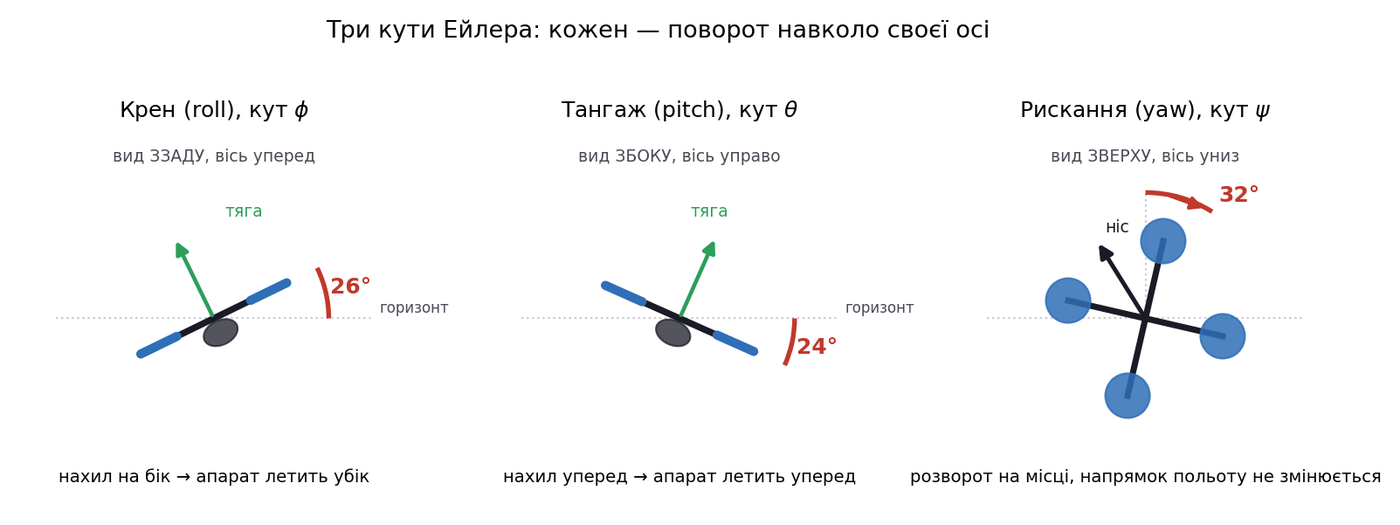
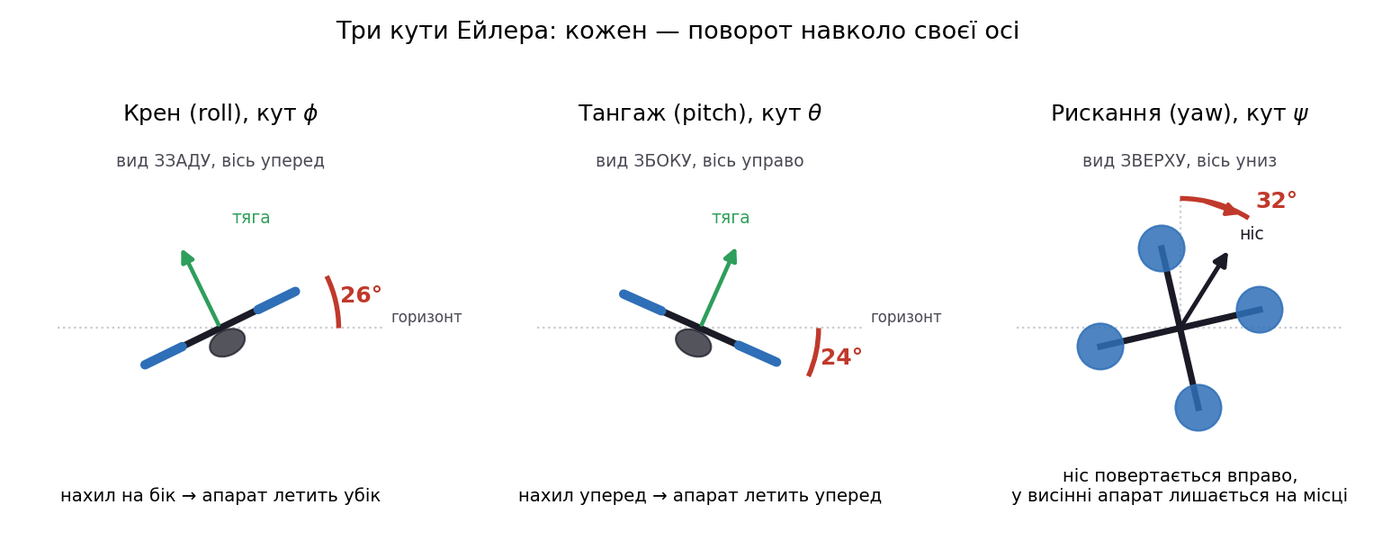
П'яте рев'ю: виправлено фізику акселерометра, кватерніон, Калмана й каскад
Аудит нового матеріалу знайшов блокувальні помилки. Арифметика скрізь
зійшлася (перевірено перерахунком), помилки — у поясненні фізичного
змісту й у перенесенні часткового прикладу на загальний випадок.

Орієнтація:
- акселерометр було описано як такий, що "міряє суму тяжіння й
  прискорення". Це неправильно: він міряє силу з боку опори, у вільному
  падінні його покази близькі до нуля. Переписано, та сама поправка
  внесена в картку числення шляху;
- yaw більше не названо таким, що "не змінює напрямок польоту": у висінні
  це так, але в нахилі зміна курсу повертає й напрямок горизонтальної тяги;
- кватерніон: було "три числа на вісь, одне на кут" - насправді векторна
  частина це вісь, помножена на синус половини кута. Додано формулу
  q = (cos(a/2); n*sin(a/2)). Знято вигадане пояснення, ніби половина кута
  "розтягує оберт" і цим усуває особливі положення. Обіцянку про плавну
  інтерполяцію обмежено: потрібні одиничні кватерніони й узгодження знаків,
  бо q і -q задають ту саму орієнтацію;
- напрямки обертання на рисунках кутів і кватерніона суперечили один
  одному. Обидва приведено до осі вниз: додатний кут - розворот управо;
- gimbal lock: "розклад не існує" -> "перестає бути однозначним";
- приклад із камерою: матриця дає поворот, позицію апарата додають окремо.

Фільтр Калмана:
- загальний вигляд прогнозу був несумісний із P = P + Q. Картку названо
  "Скалярний фільтр для найпростішої моделі", прогноз записано як x = x;
[…]

diff --git a/lectures/02.md b/lectures/02.md
@@ -109,15 +109,17 @@ Three Euler angles shown on a quadrotor from three views
 |---|---|---|
 | Крен $\phi$ (*roll*) | вісь, спрямована вперед | нахиляється на бік і летить убік |
 | Тангаж $\theta$ (*pitch*) | вісь, спрямована вправо | нахиляється вперед і летить уперед |
-| Рискання $\psi$ (*yaw*) | вертикальна вісь | розвертається на місці, напрямок польоту не змінюється |
+| Рискання $\psi$ (*yaw*) | вертикальна вісь | повертає ніс; у горизонтальному висінні це не зрушує апарат із місця |
 
-Перші два кути **керують рухом**, третій — лише орієнтацією корпусу. Наскільки саме керують, каже проста формула: якщо апарат тримає висоту й нахилений на кут $\theta$, горизонтальне прискорення дорівнює
+Перші два кути **керують рухом**, третій у висінні повертає лише корпус. (Якщо апарат уже нахилений, зміна курсу повертає й напрямок горизонтальної тяги — але в висінні цього ефекту немає.) Наскільки саме керують, каже проста формула: якщо апарат тримає висоту й нахилений на кут $\theta$, горизонтальне прискорення дорівнює
 
 $$a = g\,\tan\theta$$
 
 Нахил 10° дає 1,7 м/с², 20° — 3,6 м/с², 30° — 5,7 м/с². Ось чому в гонкових польотах апарат нахиляють майже на 45°: там $a \approx g$.
 
-Зворотний бік тієї самої монети: **апарат визначає, де низ, по акселерометру**. У спокої той міряє тільки силу тяжіння, і кут крену дістають як $\phi = \arctan(a_y / a_z)$. У маневрі це вже не працює — акселерометр міряє суму тяжіння й прискорення, — і тут потрібен гіроскоп та фільтр із частини 2.
+Зворотний бік тієї самої монети: **апарат орієнтується, де низ, по акселерометру**. Тут є тонкість, на якій часто плутаються: акселерометр міряє не прискорення й не силу тяжіння окремо, а те, з якою силою на нього діє опора. Нерухомий на столі — показує рівно $g$ угору; у вільному падінні — майже нуль.
+
+Звідси й користь: **поки апарат летить спокійно, напрямок цього вектора вказує вниз**, і з нього оцінюють нахил. У різкому маневрі оцінка псується, бо до показів додається власне прискорення апарата, — тому поряд завжди працює гіроскоп і фільтр із частини 2.
 
 ### Матриця повороту: той самий приклад із числами
 
@@ -138,11 +140,13 @@ Rotation matrix worked example with a tilted quadrotor
 
 **Кожен рядок матриці відповідає одній осі землі** й каже, скільки в неї дає кожна вісь апарата. Числа 0,940 і 0,342 — це просто $\cos 20°$ і $\sin 20°$.
 
-Де це працює на практиці: камера побачила перешкоду «за 3 метри попереду **від себе**» — щоб нанести її на карту, потрібні координати в земній системі, і перерахунок робить та сама матриця. У просторі вона 3×3, вектор із трьох чисел, принцип не змінюється.
+Де це працює на практиці: камера побачила перешкоду «за 3 метри попереду **від себе**». Щоб нанести її на карту, цей вектор спершу повертають матрицею в земні осі — а потім додають до нього власну позицію апарата. Матриця відповідає саме за поворот; зсув до позиції додають окремо. У просторі вона 3×3, вектор із трьох чисел, принцип не змінюється.
 
 ### Кватерніон: вісь і кут замість трьох чисел
 
-Кватерніон описує поворот **найчеснішим способом**: будь-який поворот тіла — це поворот навколо однієї осі на певний кут. Кватерніон і зберігає саме це: три числа на вісь, одне на кут.
+Кватерніон спирається на простий факт: **будь-який поворот тіла — це поворот навколо однієї осі на певний кут.** Записують це чотирма числами: перше — косинус половини кута, решта три — одинична вісь, помножена на синус половини кута.
+
+$$q = \bigl(\cos\tfrac{\alpha}{2};\ \ \mathbf{n}\sin\tfrac{\alpha}{2}\bigr)$$
 
 
 <Figure src="/figs/own/m02-quaternion-example.png" alt="Quaternion example for yaw rotations of a quadrotor">
@@ -152,17 +156,19 @@ Quaternion example for yaw rotations of a quadrotor
 </Figure>
 
 
-На прикладі розворот навколо вертикалі, тому вісь одна й та сама, а змінюється лише кут. Записують так: перше число — $\cos$ половини кута, останнє — $\sin$ половини кута навколо вертикальної осі.
+На прикладі розворот навколо вертикалі: вісь одна й та сама, змінюється лише кут. Вісь вертикальна, тому ненульовою лишається тільки остання компонента.
 
 | **Розворот апарата** | **Кватерніон** |
 |---|---|
 | 0° — ніс на північ | $(1{,}00;\ 0;\ 0;\ 0{,}00)$ |
-| 90° — ніс на захід | $(0{,}71;\ 0;\ 0;\ 0{,}71)$ |
+| 90° управо — ніс на схід | $(0{,}71;\ 0;\ 0;\ 0{,}71)$ |
 | 180° — ніс на південь | $(0{,}00;\ 0;\ 0;\ 1{,}00)$ |
 
-Найдивніше тут — **половина кута**. Розвернувся на 180°, а в кватерніоні 90°. Це не помилка запису, а те, завдяки чому кватерніон не має особливих положень: він рівномірно «розтягує» повний оберт замість того, щоб упиратися в межу, як кути Ейлера.
+Вісь тут вертикальна й спрямована вниз, тому додатний кут — це розворот управо, як на рисунку.
 
-Практичний наслідок для рою: **кватерніони зручно усереднювати й інтерполювати**. Потрібно плавно розвернути апарат із поточної орієнтації в задану — по кватерніонах виходить одна гладка дуга. По кутах Ейлера той самий розворот може піти найдовшим шляхом або смикнутися на переході через ±180°.
+Найдивніше тут — **половина кута**: розвернувся на 180°, а в записі 90°. Так влаштована формула, і до цього просто звикають.
+
+Практичний наслідок: **плавні розвороти рахують саме на кватерніонах**. Готові функції інтерполяції обертань працюють з одиничними кватерніонами, узгоджують знаки й обирають коротший шлях. Дві засторóги, без яких це не працює: кватерніон завжди тримають одиничної довжини, а $q$ і $-q$ задають **ту саму** орієнтацію — тому покомпонентно усереднювати кватерніони без перевірки знаків не можна.
 
 ### Особливе положення кутів Ейлера
 
@@ -170,7 +176,7 @@ Quaternion example for yaw rotations of a quadrotor
 
 Уявіть, що апарат задер ніс **строго вертикально**. Тепер поверніть його навколо вертикальної осі — це рискання. А тепер спробуйте крен. Виявляється, це той самий фізичний рух: вісь крену збіглася з віссю рискання. Три числа описують лише два незалежні повороти, і розкласти орієнтацію однозначно вже неможливо. Це **gimbal lock**.
 
-У самому цьому положенні розклад не існує, а поблизу нього він стає дедалі чутливішим: крихітна похибка гіроскопа дає стрибок кута на десятки градусів. Для знімального польоту це не проблема — там тангаж рідко виходить за 30°. Для акробатики чи різкого маневру — проблема щоразу.
+У самому цьому положенні розклад **перестає бути однозначним** — тих самих трьох чисел можна дібрати нескінченно багато, — а поблизу нього він стає дедалі чутливішим: крихітна похибка гіроскопа дає стрибок кута на десятки градусів. Для знімального польоту це не проблема — там тангаж рідко виходить за 30°. Для акробатики чи різкого маневру — проблема щоразу.
 
 Тому в автопілоті працює розподіл ролей: **рахують кватерніоном, перетворюють матрицею, показують оператору кути.**
 
@@ -237,7 +243,9 @@ Contribution of each PID term under a constant disturbance
 </Figure>
 
 
-На графіку той самий апарат зі сталим збуренням 0,6 Н і трьома наборами коефіцієнтів: сам П нескінченно коливається, П+Д зупиняється — але на 0,10 м нижче цілі, і лише П+І+Д доходить до заданої висоти.
+На графіку той самий апарат зі сталим збуренням 0,6 Н і трьома наборами коефіцієнтів: сам П коливається без згасання, П+Д зупиняється — але на 0,10 м нижче цілі, і лише П+І+Д доходить до заданої висоти.
+
+Дві засторóги до графіка. Модель тут спрощена: вага вже скомпенсована, тому $u$ — це **добавка** до тяги висіння, як доданок $mg$ у ЛР 1; опору повітря не враховано, через що чистий П і не згасає. І коефіцієнти підібрані так, щоб показати роль кожної складової, а не як приклад доброго налаштування: у варіанта П+І+Д перерегулювання близько 28 %, що за критерієм наступної картки не пройшло б.
 
 ### Стала похибка: звідки береться й чим лікується
 
@@ -253,7 +261,7 @@ $$e_{\text{ст}} = \frac{d}{k_p}$$
 </Figure>
 
 
-Для вітру $d = 0{,}6$ Н і $k_p = 6$ Н/м це 0,10 м. Збільшити $k_p$ втричі — похибка впаде до 3 см, але контур стане нервовим і почне підсилювати шум датчика. **Прибирає похибку саме інтегральна складова**: вона накопичує ці 10 см, доки не додасть рівно ті 0,6 Н, яких бракувало.
+На цьому рисунку збурення горизонтальне — вітер зносить апарат убік; на попередньому воно тягнуло вниз. Механізм той самий, тому й число те саме: для $d = 0{,}6$ Н і $k_p = 6$ Н/м похибка дорівнює 0,10 м. Збільшити $k_p$ втричі — похибка впаде до 3 см, але контур стане нервовим і почне підсилювати шум датчика. **Прибирає похибку саме інтегральна складова**: вона накопичує ці 10 см, доки не додасть рівно ті 0,6 Н, яких бракувало.
 
 Важливий виняток, який ви побачите в ЛР 1: якщо постійне навантаження **відоме наперед**, його компенсують не інтегратором, а доданком наперед — у контурі висоти до керування просто додають $mg$. Інтегратор лишається для того, чого не знали заздалегідь: вітру, похибки маси, зміщення центра.
 
@@ -299,7 +307,7 @@ Crazyflie 2.1 із лабораторних: у висінні мотори ви
 
 ### Числення шляху: навігація без жодного орієнтира
 
-Апарат має знати, **де він**. Найочевидніше джерело — GPS, але він мовчить у приміщенні, під мостом, у тунелі, у міській забудові між висотками. Що робити тоді?
+Апарат має знати, **де він**. Найочевидніше джерело — GPS, але в приміщенні чи тунелі сигналу немає, а серед високої забудови він буває неточним. Що робити тоді?
 
 Відповідь стара, як мореплавство. Штурман без берегів і зірок брав останнє відоме положення, курс, швидкість і час — і рахував, де корабель має бути зараз. Помилився в швидкості — помилка лишається в оцінці назавжди й додається до наступної. Цей спосіб називається **числення шляху** (*dead reckoning*), і бортовий комп'ютер робить те саме.
 
@@ -309,7 +317,7 @@ Crazyflie 2.1 із лабораторних: у висінні мотори ви
 <Flow :nodes="[&quot;прискорення&quot;, &quot;швидкість&quot;, &quot;положення&quot;]" />
 
 
-Проінтегрували прискорення — дістали швидкість. Проінтегрували швидкість — дістали положення. Жодних зовнішніх сигналів, нічого не заглушити, працює будь-де й на будь-якій частоті. Саме тому числення шляху є на кожному апараті.
+Проінтегрували прискорення — дістали швидкість. Проінтегрували швидкість — дістали положення. Головна перевага: **не потрібен зовнішній радіосигнал** — усе рахується на борту з власних датчиків. Саме тому числення шляху є на кожному апараті. Точність при цьому цілком залежить від якості датчиків і від того, як часто оцінку коригують ззовні.
 
 ### Чому позиція спливає сама собою
 
@@ -369,22 +377,24 @@ $$\hat{x} = \hat{x}^- + K\,(z - \hat{x}^-), \qquad K = \frac{0{,}09}{0{,}09 + 0{
 | Наскільки рушити оцінку | $0{,}123 \cdot 1{,}20$ | 0,15 м |
 | Нова оцінка | $10{,}00 + 0{,}15$ | **10,15 м** |
 
-Читається так: «барометру вірю приблизно на 12 %». Звідки 12 %? Похибка прогнозу майже втричі менша, а у ваги входять **квадрати** похибок — тому перевага прогнозу виходить майже десятикратною.
+Читається так: «барометру вірю приблизно на 12 %». Звідки 12 %? Стандартне відхилення прогнозу майже втричі менше, а у ваги входять **квадрати** цих чисел: $0{,}64 / 0{,}09 \approx 7$. Прогноз важить усемеро більше, звідси й 12 % на вимірювання. У прикладі похибки двох джерел вважаємо незалежними.
 
-Читається так: «барометру вірю приблизно на 12 %». **$K$ близьке до нуля** — «вірю моделі, датчик шумний»; **близьке до одиниці** — «вірю датчику, модель груба». Якби барометр мав похибку 0,10 м, підсилення стало б 0,9, і оцінка пішла б майже до його показів.
+Читається так: «барометру вірю приблизно на 12 %» — бо у ваги входять квадрати похибок, і прогноз виявляється вагомішим приблизно всемеро. **$K$ близьке до нуля** — «вірю моделі, датчик шумний»; **близьке до одиниці** — «вірю датчику, модель груба». Якби барометр мав похибку 0,10 м, підсилення стало б 0,9, і оцінка пішла б майже до його показів.
 
-### Увесь фільтр — чотири рядки
+### Скалярний фільтр для найпростішої моделі
 
-Для однієї величини фільтр Калмана вміщується в чотири прості формули. Позначимо $P$ — наскільки фільтр не впевнений у власній оцінці (квадрат стандартного відхилення), $Q$ — наскільки за такт псується прогноз, $R$ — квадрат похибки датчика.
+Візьмімо найпростіший випадок: оцінюємо одну величину, а модель руху каже «наступного такту буде приблизно те саме». Тоді фільтр Калмана вміщується в чотири рядки. Позначимо $P$ — наскільки фільтр не впевнений у власній оцінці (це квадрат стандартного відхилення), $Q$ — наскільки за такт псується прогноз, $R$ — квадрат похибки датчика.
 
 | **Крок** | **Формула** | **Словами** |
 |---|---|---|
-| 1. Прогноз стану | $\hat{x}^- = f(\hat{x})$ | куди апарат мав переміститися за моделлю |
+| 1. Прогноз стану | $\hat{x}^- = \hat{x}$ | модель каже «лишиться як було» |
 | 2. Прогноз невпевненості | $P^- = P + Q$ | **без вимірювань упевненість тільки падає** |
 | 3. Підсилення | $K = \dfrac{P^-}{P^- + R}$ | чия похибка менша, той і важить більше |
 | 4. Корекція | $\hat{x} = \hat{x}^- + K(z - \hat{x}^-)$, $\;P = (1-K)\,P^-$ | зсунули оцінку й стали впевненіші |
 
-Ці чотири рядки крутяться в циклі сто разів на секунду. Ось як це виглядає на 220 тактах:
+Рядок 1 тут навмисно тривіальний. У справжньому фільтрі там стоїть модель руху, і тоді другий рядок теж виглядає складніше — але сенс усіх чотирьох кроків лишається той самий.
+
+Ось цей цикл на 220 тактах (у прикладі такт 0,05 с, тобто 20 разів на секунду — частота може бути будь-якою):
 
 
 <Figure src="/figs/own/m02-kalman-time.png" alt="Kalman filter tracking true altitude through noisy measurements">
@@ -394,9 +404,11 @@ Kalman filter tracking true altitude through noisy measurements
 </Figure>
 
 
-Ліворуч: червоні точки — покази барометра, вони стрибають на ±1,5 м; чорний пунктир — справжня висота; синя лінія — те, що видає фільтр. Він **не повторює шум і не відстає** від справжньої висоти. Смуга навколо — власна оцінка невпевненості фільтра, і справжня висота майже завжди в неї потрапляє.
+Ліворуч: червоні точки — покази барометра, розкид до двох метрів; чорний пунктир — справжня висота; синя лінія — те, що видає фільтр. Він **гасить більшу частину шуму**, хоч і не весь, і йде слідом за справжньою висотою з невеликим запізненням. Бліда смуга — власна оцінка невпевненості фільтра, $\pm 2\sqrt{P}$; у цьому прогоні справжня висота потрапила в неї 217 разів із 220.
 
-Праворуч — підсилення $K$. На першому такті фільтр не знає нічого й майже повністю вірить датчику. Далі $P$ і $K$ швидко виходять на стале значення близько 0,31: рівновага між тим, як швидко псується прогноз, і тим, як шумить датчик. **Саме через це фільтр не треба «налаштовувати на льоту» — він сам знаходить свою робочу точку.**
+Праворуч — підсилення $K$. На першому такті воно 0,61: стартову оцінку задали грубо, тому вимірювання отримує більшу вагу. Далі $K$ швидко виходить на стале значення 0,31 — рівновага між тим, як швидко псується прогноз ($Q$), і тим, як шумить датчик ($R$). Стале значення $P$ при цьому інше, 0,20 м²: це різні величини, і плутати їх не варто.
+
+Важливо, чого звідси **не** випливає. Те, що $K$ сам виходить на стале значення, не означає, що фільтр «сам налаштувався»: $Q$ і $R$ ми задали наперед, і саме вони визначили цю робочу точку. Якщо датчик заміняють або змінюються умови польоту — числа доводиться переглядати.
 
 Практичний наслідок кроку 2: якщо вимірювань довго немає, $P$ росте, $K$ підскакує — і перше ж вимірювання фільтр «проковтне» майже цілком. Так і має бути: чим довше летіли наосліп, тим цінніший погляд назовні.
 
@@ -500,7 +512,7 @@ $$u_i = \sum_{j \in \mathcal{N}_i} (x_j - x_i)$$
 
 $$x_i \leftarrow x_i + \Delta t \cdot u_i$$
 
-Крок $\Delta t$ малий (у нас 0,01 с) — апарат не стрибає до сусіда, а посувається на сантиметри. Ось ці самі обчислення для апарата 1 на першому такті:
+Крок $\Delta t$ малий (у нас 0,01 с) — апарат не стрибає до сусіда, а посувається на сантиметри. Важлива деталь реалізації: всі нові висоти рахують **з одного знімка старих**. Якщо оновлювати їх по черзі, поспіль у тому самому масиві, вийде вже інший алгоритм. Ось ці самі обчислення для апарата 1 на першому такті:
 
 | **Величина** | **Значення** |
 |---|---|
@@ -524,17 +536,17 @@ Consensus on a chain shown at four time steps
 </Figure>
 
 
-**Такт 0.** Розкид величезний: від 2 до 12 м. Апарати 1 і 3 вищі за сусідів — команда вниз; 2 і 4 нижчі — команда вгору. Апарат 5 майже на місці: він лише трохи вищий за свого єдиного сусіда.
+**Такт 0.** Розкид величезний: від 2 до 12 м. Апарати 1 і 3 вищі за своїх сусідів — команда вниз; 2 і 4 нижчі — команда вгору. Апарат 5 висить на 7 м, а його єдиний сусід — на 2 м, тому він теж отримує команду знижуватися. Стрілки на рисунку показують **напрямок** команди, не її величину.
 
 **Такт 1.** Кожен зсунувся на кілька сантиметрів. Нічого драматичного — і в цьому суть: закон працює маленькими кроками.
 
 **Такт 200 (2 секунди).** Розкид упав із 10 м до 2 м. Видно, як «хвиля» пішла ланцюгом: апарат 1 просів найсильніше, бо був найдалі від усіх.
 
-**Такт 1000 (10 секунд).** Усі п'ять — на 6,8 м, стовпчики зрівнялися.
+**Такт 1000 (10 секунд).** Висоти від 6,75 до 6,85 м: спрацював критерій зупинки — розкид став менший за 0,10 м, тобто у сто разів менший за початковий. Абсолютно рівними вони стануть лише в нескінченності.
 
 І тепер головне, що справді дивує. **Жоден апарат не знає середньої висоти рою.** Апарат 1 бачить лише апарата 2. Немає ні центру, ні лідера, ні спільної трансляції. Проте рій сходиться **точно до середнього початкових значень**: $(12 + 4 + 9 + 2 + 7)/5 = 6{,}8$ м.
 
-Чому саме до середнього? Кожен зв'язок працює в обидва боки однаково: скільки апарат 1 віддає апаратові 2, стільки той і отримує. Сума всіх висот за такт не змінюється — а отже, не змінюється й середнє. Рій може перерозподіляти висоту між собою, але не може створити чи втратити її сумарно.
+Чому саме до середнього? Кожен зв'язок працює в обидва боки однаково: скільки апарат 1 віддає апаратові 2, стільки той і отримує. Сума всіх висот за такт не змінюється — а отже, не змінюється й середнє. Рій може перерозподіляти висоту між собою, але не може створити чи втратити її сумарно. Сама по собі ця властивість не гарантує, що рій зійдеться: для цього потрібні ще зв'язний граф і достатньо малий крок, як у показаному досліді.
 
 ### Код: консенсус на різних топологіях
 
@@ -591,7 +603,7 @@ for name, E in topo.items():
 </Figure>
 
 
-Придивіться до форми кривих. У **ланцюгу** крайні апарати довго тягнуться до середини: апарат 1 бачить лише апарата 2, той лише 1 і 3 — новина про те, що на іншому кінці рою висота зовсім інша, доходить не одразу, а переповзає ланкою за ланкою. У **кільці** той самий рій має два шляхи замість одного, і криві стягуються майже вдвічі швидше.
+Придивіться до форми кривих. У **ланцюгу** крайні апарати довго тягнуться до середини: апарат 1 бачить лише апарата 2, той лише 1 і 3 — новина про те, що на іншому кінці рою висота зовсім інша, доходить не одразу, а переповзає ланкою за ланкою. У **кільці** той самий рій має два шляхи замість одного, і криві стягуються втричі з половиною швидше: 2,82 с проти 9,96 с.
 
 Спільна висота однакова для всіх топологій — 6,80 м, тобто середнє початкових значень. Відрізняється лише час, і він падає разом зі зростанням $\lambda_2$. Найдешевша інженерна дія в усій темі — **замкнути ланцюг у кільце**: одне додаткове ребро піднімає $\lambda_2$ з 0,382 до 1,382 і скорочує час збіжності з 9,96 с до 2,82 с.
 
@@ -603,7 +615,7 @@ for name, E in topo.items():
 
 Тема не обов'язкова для заліку, але без неї важко читати будь-який автопілот — і важко зрозуміти, звідки в лабораторних узялися саме 50 Гц.
 
-Керування мультикоптером — це не одна програма, а **каскад** вкладених контурів, і кожен крутиться зі своєю частотою. Ось що відбувається, поки політика приймає **одне** рішення:
+Керування мультикоптером — це не одна програма, а **каскад** вкладених контурів, і кожен крутиться зі своєю частотою. Ось що відбувається, поки політика видає **одну** дію:
 
 
 <Figure src="/figs/own/m02-cascade-rates.png" alt="Cascade control rates over one policy step">
@@ -613,34 +625,35 @@ Cascade control rates over one policy step
 </Figure>
 
 
-За ті 20 мілісекунд, що політика думає над однією дією, внутрішній контур встигає відпрацювати **десять** тактів, а симулятор — прорахувати **двадцять** кроків фізики.
+За ті 20 мілісекунд, що минають між двома рішеннями політики, внутрішній контур встигає відпрацювати **десять** тактів, а симулятор — прорахувати **двадцять** кроків фізики. (20 мс — це період видачі дій, а не час обчислення: сама мережа рахується значно швидше.)
 
-| **Контур** | **Частота** | **Один такт — це** |
+| **Рівень** | **Частота в цьому прикладі** | **Що він видає** |
 |---|---|---|
-| Політика / зовнішній контур | 50 Гц | «летіти вперед зі швидкістю 2 м/с» |
-| Кути крену й тангажа | 250 Гц | «нахилитися на 12°» |
-| Кутові швидкості | 500 Гц | «крутитися зі швидкістю 1,2 рад/с» |
+| Політика / зовнішній контур | 50 Гц | завдання для нижнього рівня |
+| Кути крену й тангажа | 250 Гц | потрібний нахил корпусу |
+| Кутові швидкості | 500 Гц | потрібна швидкість обертання |
+| Розподіл керування → мотори | 500 Гц | команди окремим приводам |
 | Фізика симулятора | 1000 Гц | інтегрування рівнянь руху |
 
-Кожен контур **не керує моторами напряму** — він видає завдання тому, хто нижче. Політика не знає, які там оберти; вона просить швидкість. Контур кутів не знає, чого хоче місія; він тримає заданий нахил.
+**Який саме інтерфейс у політики — залежить від задачі.** У ЛР 2 вона видає одне число, нормовану тягу, а кути тримає бортовий регулятор. У Модулі 06 інтерфейс ширший — тяга й кутові швидкості. Показані тут 50/250/500 Гц — це числа конкретного прикладу, а не стандарт: у різних автопілотах вони різні.
 
-### Частоти: три приклади, чому саме так
+### Частоти: три приклади
 
-**Приклад 1: чому не все на 1000 Гц.** Позицію апарата оновлює GPS — десять разів на секунду. Якщо крутити позиційний контур на 1000 Гц, 99 тактів зі ста він працюватиме з **тим самим числом**, якого ніхто не оновлював. Обчислення витрачені, користі нуль. Частота контуру не має сенсу вищою за частоту даних, на яких він працює.
+**Приклад 1: рідкісні вимірювання й частий прогноз.** GPS оновлює позицію десять разів на секунду, а керувати треба частіше. Виходу два, і працюють вони разом: між вимірюваннями оцінювач **прогнозує** позицію за показами IMU (це рівно той фільтр із частини 2), а рідкісні вимірювання GPS цей прогноз **коригують**. Тому позиційний контур може працювати швидше за GPS — але свіжої зовнішньої інформації в нього все одно стільки, скільки дає GPS.
 
-**Приклад 2: чому внутрішній контур мусить бути швидшим.** Політика попросила «нахилися на 12°». Якщо контур кутів працює на тій самій частоті 50 Гц, він устигне зробити рівно один крок — і до наступного рішення політики апарат до 12° ще не дійде. Політика побачить, що завдання не виконане, і попросить ще сильніше. Далі — перерегулювання й розгойдування. **Правило каскаду: сусідні контури розносять приблизно в п'ять разів**, щоб нижній устигав відпрацювати завдання до приходу наступного.
+**Приклад 2: навіщо рознос між рівнями.** Політика попросила «нахилися на 12°». Щоб її наступне рішення спиралося на виконане завдання, нижній контур має встигнути цей нахил відпрацювати. Якщо нижній рівень надто повільний або в каналі є затримка, верхній бачить невиконане завдання й починає просити сильніше — знайома картина з частини 3 про затримки. Тому рівні й розносять: не за магічним числом, а так, щоб нижній устигав. У показаному ряду 50 → 250 → 500 Гц відношення виходять різні — 5 і 2.
 
-**Приклад 3: як за частотою коливання знайти винний контур.** Апарат погано летить — де шукати?
+**Приклад 3: із чого починати, коли апарат погано летить.** Частота коливання звужує коло підозрюваних, хоч і не називає винного одразу:
 
-| **Що бачите** | **Частота коливання** | **Винний** |
+| **Що бачите** | **Частота** | **Що перевірити першим** |
 |---|---|---|
-| Дрібне тремтіння, «дзижчить» | десятки герц | внутрішній контур: завеликий $k_d$ або шум гіроскопа |
-| Плавне гойдання, період близько секунди | одиниці герц | зовнішній контур: завеликий $k_p$ позиції |
-| Повільне «плавання» навколо точки | частки герца | інтегральна складова або оцінювач позиції |
+| Дрібне тремтіння, «дзижчить» | десятки герц | шум гіроскопа, завеликий $k_d$, фільтр у внутрішньому контурі |
+| Плавне гойдання, період близько секунди | одиниці герц | коефіцієнти зовнішнього контуру, затримка в каналі |
+| Повільне «плавання» навколо точки | частки герца | інтегральна складова, якість оцінювача позиції |
 
-Це той самий діагностичний прийом, яким користуються на реальних апаратах: спершу дивляться **як швидко** коливається, і лише потім лізуть у коефіцієнти.
+Одну й ту саму частоту можуть давати різні причини — регулятор, затримка, фільтр, механіка, насичення тяги. Таблиця каже, **де шукати**, а не хто винен.
 
-**Звідки 1000 Гц у симулятора.** Це вже не керування, а чисельне інтегрування рівнянь руху. Завеликий крок дає неправильну фізику незалежно від якості регулятора: апарат «провалюється» крізь підлогу або набирає енергію з нічого. Тому крок симуляції завжди дрібніший за найшвидший контур.
+**Про крок симуляції.** 1000 Гц у симуляторі — це не рівень каскаду, а чисельне інтегрування рівнянь руху. Крок обирають за динамікою задачі й перевіряють просто: зменшують удвічі й дивляться, чи змінився результат. Якщо змінився — крок був завеликий.
 
 ### Типові непорозуміння
 
